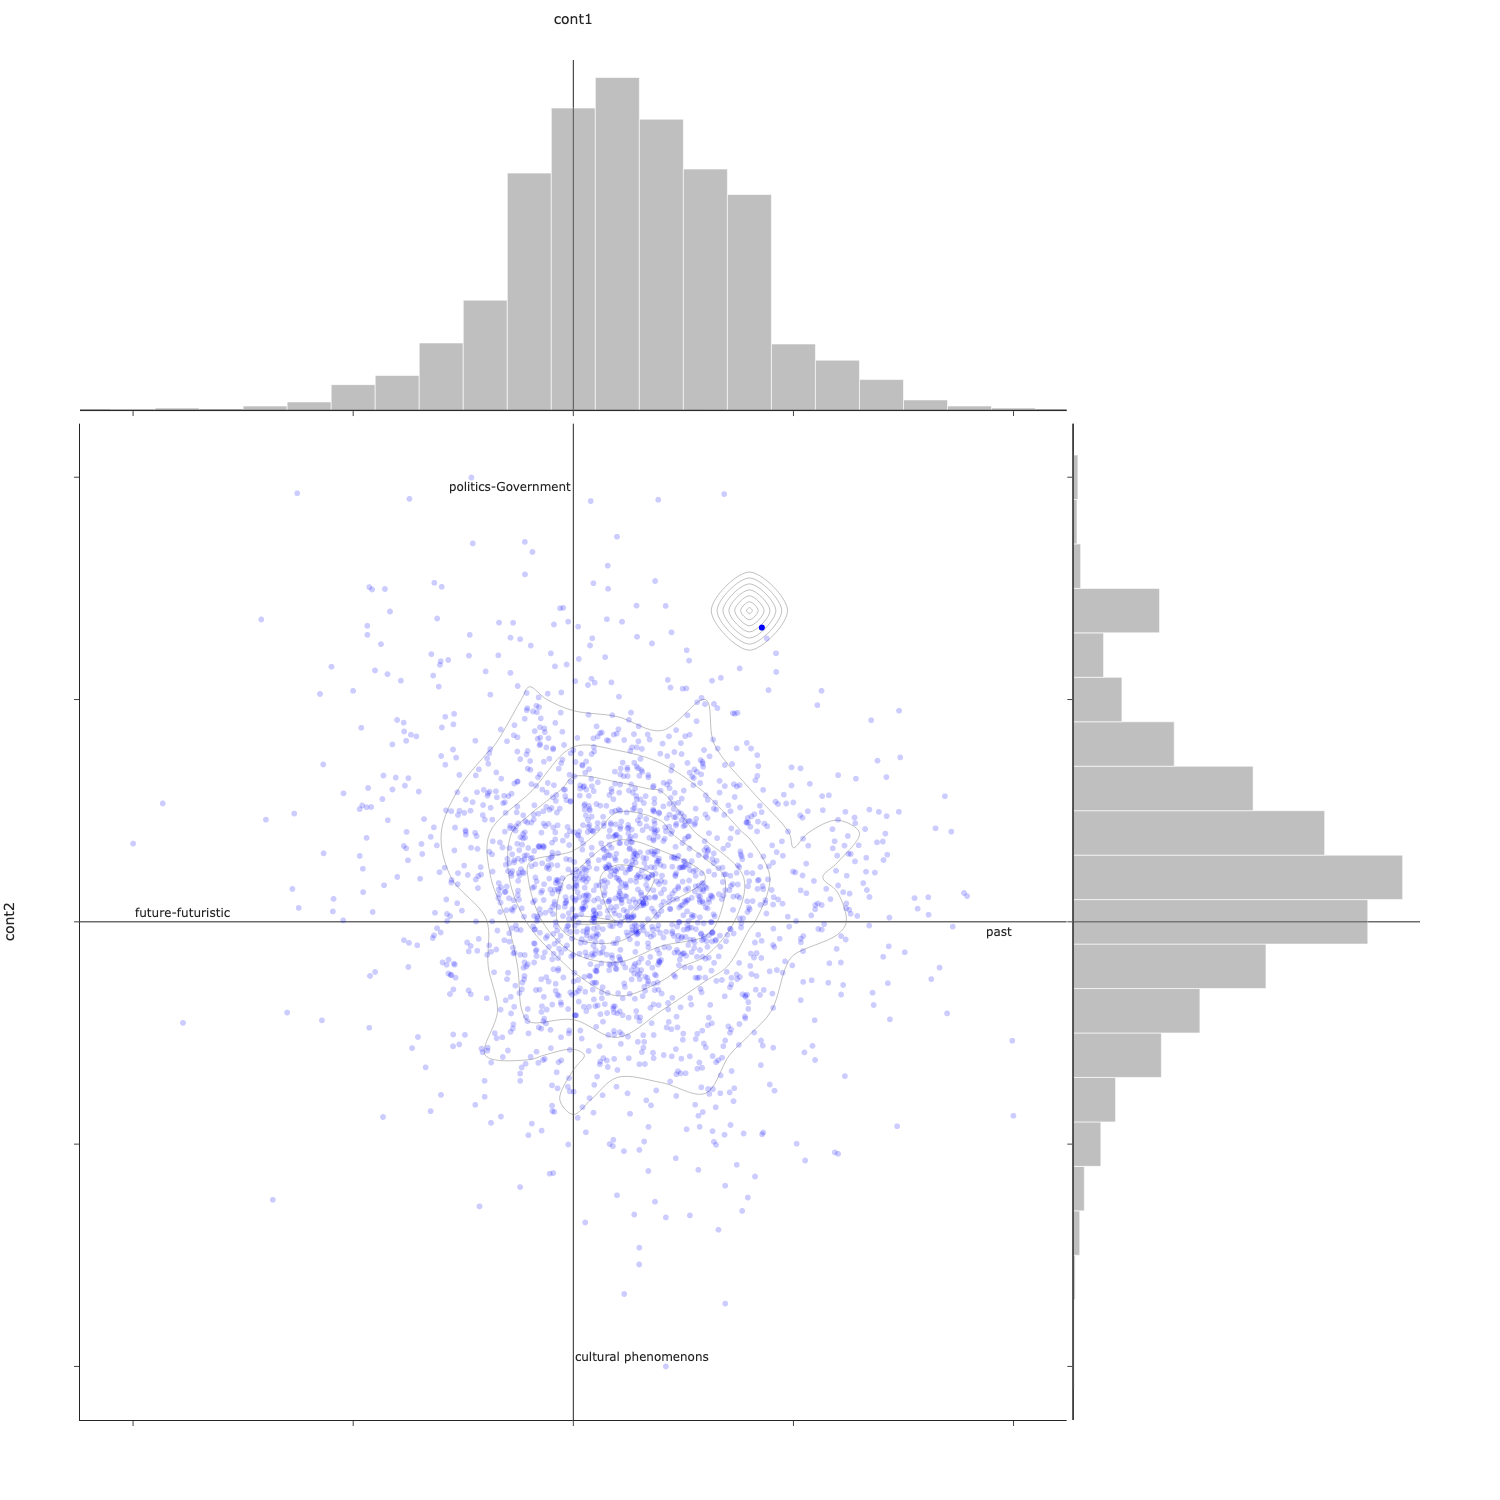
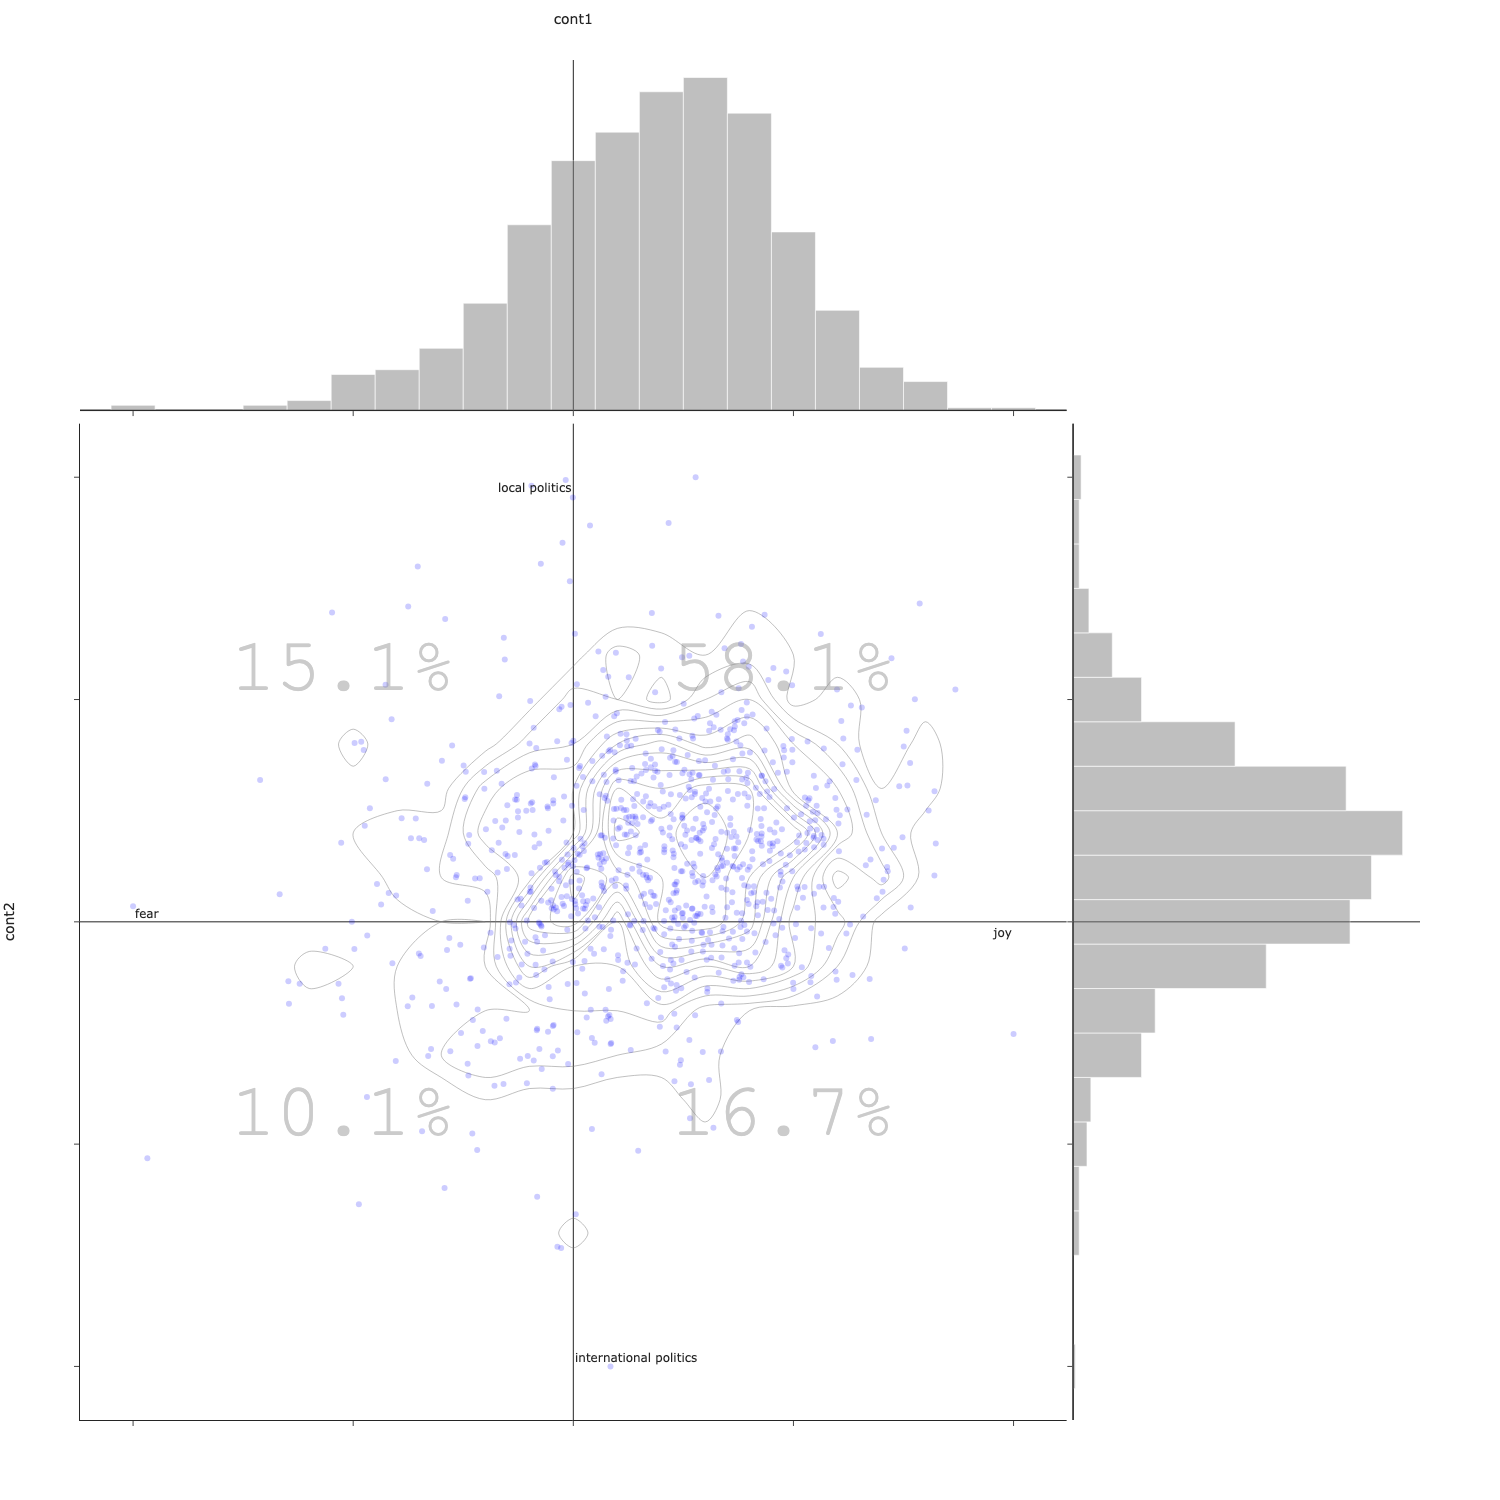
feat/dimensions

diff --git a/bunkatopics/bunkatopics.py b/bunkatopics/bunkatopics.py
@@ -22,6 +22,9 @@ from .functions.coherence import get_coherence
 from .functions.search import vector_search
 import uuid
 import typing as t
+from tqdm import tqdm
+from sklearn.preprocessing import MinMaxScaler
+import plotly.express as px
 
 import os
 
@@ -249,4 +252,43 @@ class Bunka:
 
     def visualize_topics(self, width=1000, height=1000) -> go.Figure:
         fig = visualize_topics(self.docs, self.topics, width=width, height=height)
+        return fig
+
+    def get_dimensions(
+        self, dimensions: t.List[str], width=500, height=500, template="plotly_dark"
+    ) -> go.Figure:
+        final_df = []
+        logger.info("Computing Similarities")
+        scaler = MinMaxScaler()
+        for dim in tqdm(dimensions):
+            df_search = self.search(dim)
+            df_search["score"] = scaler.fit_transform(
+                df_search[["cosine_similarity_score"]]
+            )
+            df_search["source"] = dim
+            final_df.append(df_search)
+        final_df = pd.concat([x for x in final_df])
+
+        final_df_mean = (
+            final_df.groupby("source")["score"]
+            .mean()
+            .rename("mean_score")
+            .reset_index()
+        )
+        final_df_mean = final_df_mean.sort_values(
+            "mean_score", ascending=True
+        ).reset_index(drop=True)
+        final_df_mean["rank"] = final_df_mean.index + 1
+
+        self.df_dimensions = final_df_mean
+
+        fig = px.line_polar(
+            final_df_mean,
+            r="mean_score",
+            theta="source",
+            line_close=True,
+            template=template,
+            width=width,
+            height=height,
+        )
         return fig

diff --git a/README.md b/README.md
@@ -127,6 +127,25 @@ The power of this visualisation is to constrain the axis by creating continuums 
 
 <img src="images/bourdieu.png" width="70%" height="70%" align="center" />
 
+```python
+
+dimension_fig = bunka.get_dimensions(dimensions=[
+                            "Happiness",
+                            "Sadness",
+                            "Anger",
+                            "Love",
+                            "Surprise",
+                            "Fear",
+                            "Excitement",
+                            "Disgust",
+                            "Confusion",
+                            "Gratitude",
+                        ])
+
+```
+
+<img src="images/dimensions.png" width="50%" height="50%" align="center" />
+
 ## Multilanguage
 
 The package use Spacy to extract meaningfull terms for the topic represenation.
